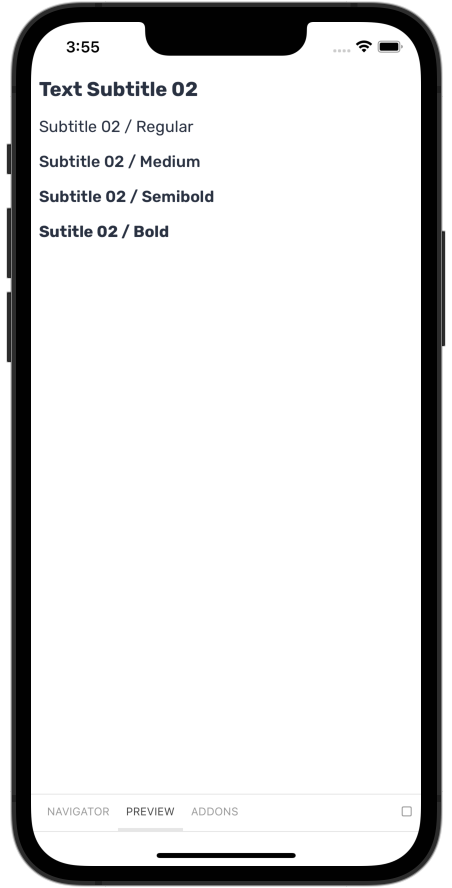
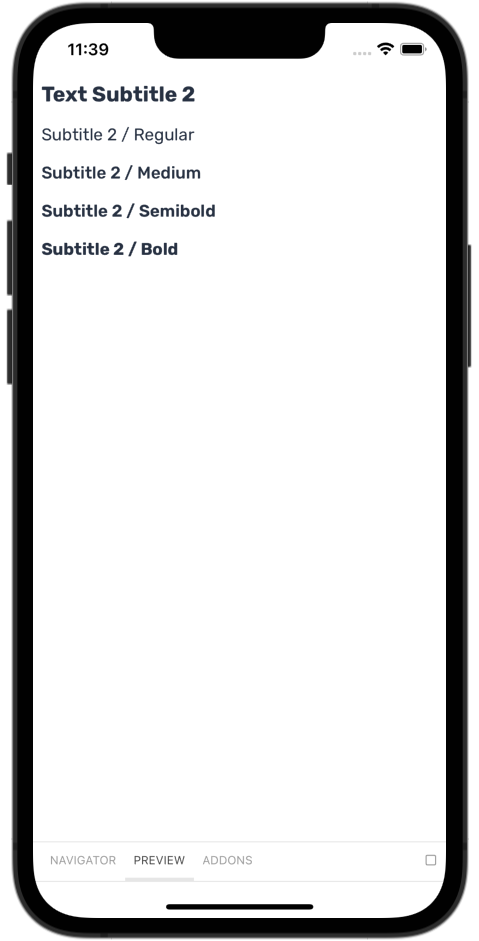
feat(text): variant names changed

diff --git a/example/src/(tabs)/list/text.js b/example/src/(tabs)/list/text.js
@@ -49,7 +49,7 @@ export default () => {
           Subtitle 2 / Semibold
         </Text>
         <Text variant="subtitle2Bold" p="2xs">
-          Sutitle 2 / Bold
+          Subtitle 2 / Bold
         </Text>
       </Box>
 

diff --git a/src/components/Text/Text.stories.tsx b/src/components/Text/Text.stories.tsx
@@ -86,7 +86,7 @@ export const Subtitle2: TextStory = () => (
       Subtitle 2 / Semibold
     </Text>
     <Text variant="subtitle2Bold" p="2xs">
-      Sutitle 2 / Bold
+      Subtitle 2 / Bold
     </Text>
   </>
 );
